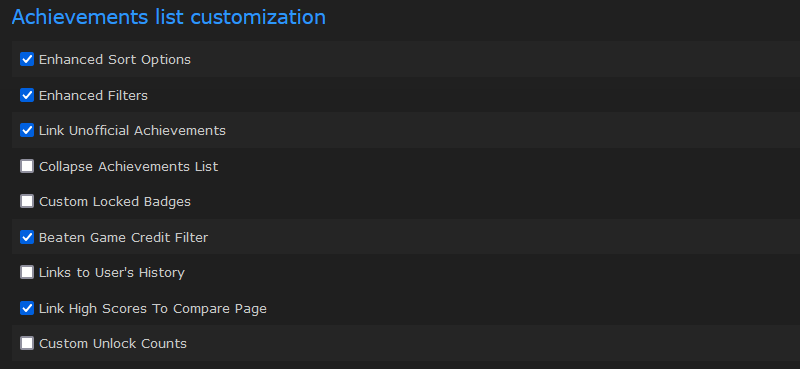
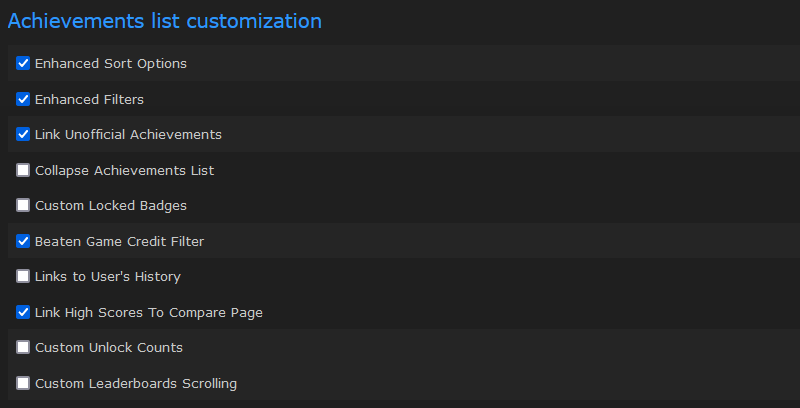
CustomCheevosList: Custom leaderboards scrolling on game, achievement and leaderboard pages: - auto scroll to the current leaderboard and highlight it ; - settings to choose the height on game page and others pages + documentation updated

diff --git a/RA_CustomCheevosList.user.js b/RA_CustomCheevosList.user.js
@@ -1,12 +1,13 @@
 // ==UserScript==
 // @name         RA_CustomCheevosList
 // @namespace    RA
-// @version      1.2
+// @version      1.3
 // @description  Provides a set of options to customize the achievements list on a game page
 // @author       Mindhral
 // @homepage     https://github.com/Mindhral/RA_userscripts
 // @match        https://retroachievements.org/game/*
 // @match        https://retroachievements.org/achievement/*
+// @match        https://retroachievements.org/leaderboardinfo.php*
 // @match        https://retroachievements.org/controlpanel.php*
 // @run-at       document-start
 // @icon         https://static.retroachievements.org/assets/images/favicon.webp
@@ -107,6 +108,23 @@ const settingsHtml = `<div class="component">
         <label title="Total unlocks displayed, hardcore on the bar's mouseover"><input type="radio" name="unlockCountData" value="total"> total</label>
         <label title="Both displayed in parallel"><input type="radio" name="unlockCountData" value="both"> both</label>
       </td>
+    </tr>
+    <tr><th colspan="2"><label><input id="scrollableLBsActive" type="checkbox"> Custom Leaderboards Scrolling</label></th></tr>
+    <tr>
+      <td>Max height on game page</td>
+      <td><input id="scrollableLBsGameMaxHeight" type="number" style="width: 7em;"><span title="em: font-size of the element" style="cursor: help;"> em</span> <span class="icon" title="0 or negative to ignore" style="cursor: help;">💡</span></td>
+    </tr>
+    <tr>
+      <td>Max height on other pages</td>
+      <td><input id="scrollableLBsDefMaxHeight" type="number" style="width: 7em;"><span title="em: font-size of the element" style="cursor: help;"> em</span></td>
+    </tr>
+    <tr>
+      <td>Thin scrollbar</td>
+      <td><input id="scrollableLBsThinBar" type="checkbox"></td>
+    </tr>
+    <tr>
+      <td>Auto scroll to current LB</td>
+      <td><input id="scrollableLBsAutoScroll" type="checkbox"></td>
     </tr>
   </tbody></table>
 </div>`;
@@ -983,6 +1001,98 @@ const CustomUnlockCounts = (() => {
     return { gamePage, settingsPage };
 })();
 
+const ScrollableLeaderboards = (() => {
+    const DefaultSettings = {
+        active: false,
+        gamePageMaxHeight: 95,
+        defaultMaxHeight: 70,
+        thinScrollbar: false,
+        autoScroll: true
+    };
+
+    const Settings = loadSettings('scrollableLeaderboards', DefaultSettings);
+
+    function saveSettings() {
+        GM_setValue('scrollableLeaderboards', Settings);
+    }
+
+    function settingsPage() {
+        const activeCheckbox = document.getElementById('scrollableLBsActive');
+        activeCheckbox.checked = Settings.active;
+        const gamePageMaxHeightText = document.getElementById('scrollableLBsGameMaxHeight');
+        gamePageMaxHeightText.value = Settings.gamePageMaxHeight;
+        const defaultPageMaxHeightText = document.getElementById('scrollableLBsDefMaxHeight');
+        defaultPageMaxHeightText.value = Settings.defaultMaxHeight;
+        const thinScrollBarCheckbox = document.getElementById('scrollableLBsThinBar');
+        thinScrollBarCheckbox.checked = Settings.thinScrollbar;
+        const autoScrollCheckbox = document.getElementById('scrollableLBsAutoScroll');
+        autoScrollCheckbox.checked = Settings.autoScroll;
+
+        activeCheckbox.addEventListener('change', () => {
+            Settings.active = activeCheckbox.checked;
+            setRowVisibility(gamePageMaxHeightText, Settings.active);
+            setRowVisibility(defaultPageMaxHeightText, Settings.active);
+            setRowVisibility(thinScrollBarCheckbox, Settings.active);
+            setRowVisibility(autoScrollCheckbox, Settings.active);
+            saveSettings();
+        });
+        activeCheckbox.dispatchEvent(new Event('change'));
+        gamePageMaxHeightText.addEventListener('change', () => {
+            if (!gamePageMaxHeightText.reportValidity()) return;
+            Settings.gamePageMaxHeight = parseInt(gamePageMaxHeightText.value);
+            saveSettings();
+        });
+        defaultPageMaxHeightText.addEventListener('change', () => {
+            if (!defaultPageMaxHeightText.reportValidity()) return;
+            Settings.defaultMaxHeight = parseInt(defaultPageMaxHeightText.value);
+            saveSettings();
+        });
+        thinScrollBarCheckbox.addEventListener('change', () => {
+            Settings.thinScrollbar = thinScrollBarCheckbox.checked;
+            saveSettings();
+        });
+        autoScrollCheckbox.addEventListener('change', () => {
+            Settings.autoScroll = autoScrollCheckbox.checked;
+            saveSettings();
+        });
+    }
+
+    function gamePage() {
+        if (!Settings.active) return;
+
+        const lbTitle = getElementByXpath(document, '//aside//h2[text()="Leaderboards"]');
+        if (!lbTitle) return;
+
+        const pathname = window.location.pathname;
+        const maxHeight = pathname.startsWith('/game') ? Settings.gamePageMaxHeight : Settings.defaultMaxHeight;
+        if (maxHeight <= 0) return;
+
+        addStyleBlock(`.lb-list { overflow-y: auto; max-height: ${maxHeight}em; scrollbar-width: ${Settings.thinScrollbar ? 'thin' : 'auto'}; scroll-snap-type: y mandatory; }
+        .lb-list > div { scroll-snap-align: start; }`);
+
+        const lbDiv = lbTitle.nextElementSibling;
+        if (!lbDiv) return;
+        lbDiv.classList.remove('max-h-[980px]');
+        lbDiv.classList.add('lb-list');
+
+        if (pathname.startsWith('/leaderboardinfo')) {
+            const selector = 'a[href$="' + window.location.search + '"]';
+            const currentLbIndex = [...lbDiv.children].findIndex(e => e.querySelector(selector));
+            if (currentLbIndex > -1) {
+                const currentLBDiv = lbDiv.children.item(currentLbIndex);
+                currentLBDiv.style['border-color'] = 'var(--text-color)';
+                if (Settings.autoScroll && currentLbIndex > 2) {
+                    const topDiv = lbDiv.children.item(currentLbIndex - 2);
+                    topDiv.scrollIntoView();
+                    scroll(0,0); // workaround to have the main viewport stay on top
+                }
+            }
+        }
+    }
+
+    return { gamePage, settingsPage };
+})();
+
 const Pages = {
     game: () => {
         EnhancedCheevosSort.gamePage();
@@ -994,9 +1104,14 @@ const Pages = {
         HistoryLinks.gamePage();
         LinkHighScore2Compare.gamePage();
         CustomUnlockCounts.gamePage();
+        ScrollableLeaderboards.gamePage();
     },
     achievement: () => {
         CustomLockedBadges.gamePage();
+        ScrollableLeaderboards.gamePage();
+    },
+    leaderboardinfo: () => {
+        ScrollableLeaderboards.gamePage();
     },
     controlpanel: () => {
         const settingsDiv = getElementByXpath(document, '//div[h3[text()="Settings"]]');
@@ -1014,6 +1129,7 @@ const Pages = {
         HistoryLinks.settingsPage();
         LinkHighScore2Compare.settingsPage();
         CustomUnlockCounts.settingsPage();
+        ScrollableLeaderboards.settingsPage();
     }
 };
 

diff --git a/README.md b/README.md
@@ -177,6 +177,20 @@ Hardcore data uses the hardcore unlocks, but also the hardcore players count as 
 
 Progress bars are not modified (except for the mouseover text), and the achievements page is not supported by this feature at the moment.
 
+### Custom Leaderboards Scrolling
+
+Modifies the scrolling of the leaderboards list found on a game, achievement or leaderboard pages.
+
+![custom leaderboards scrolling settings](/assets/CustomLBScroll_settings.png)
+
+1. The maximum height of the list can be changed with 2 parameters: one for game pages, and one for achievement and leaderboard pages.
+2. A thin scrollbar can be used instead of the default one. See [Scrollable Game Awards](#scrollable-game-awards) for more information on thin scrollbars.
+3. On a leaderboard page, the current leaderboard is highlighted in the list.
+
+![custom leaderboards scrolling highlight](/assets/CustomLBScroll_highlight.png)
+
+4. On a leaderboard page, a parameter allows to scroll to the current leaderboard on page load.
+
 ## RA_GameListTagFilter
 
 Adds a filter on games titles tags on game list pages: *All Games*, *Want to Play*, *Claim List*, *Most Requested*, *Hardest Games*.
